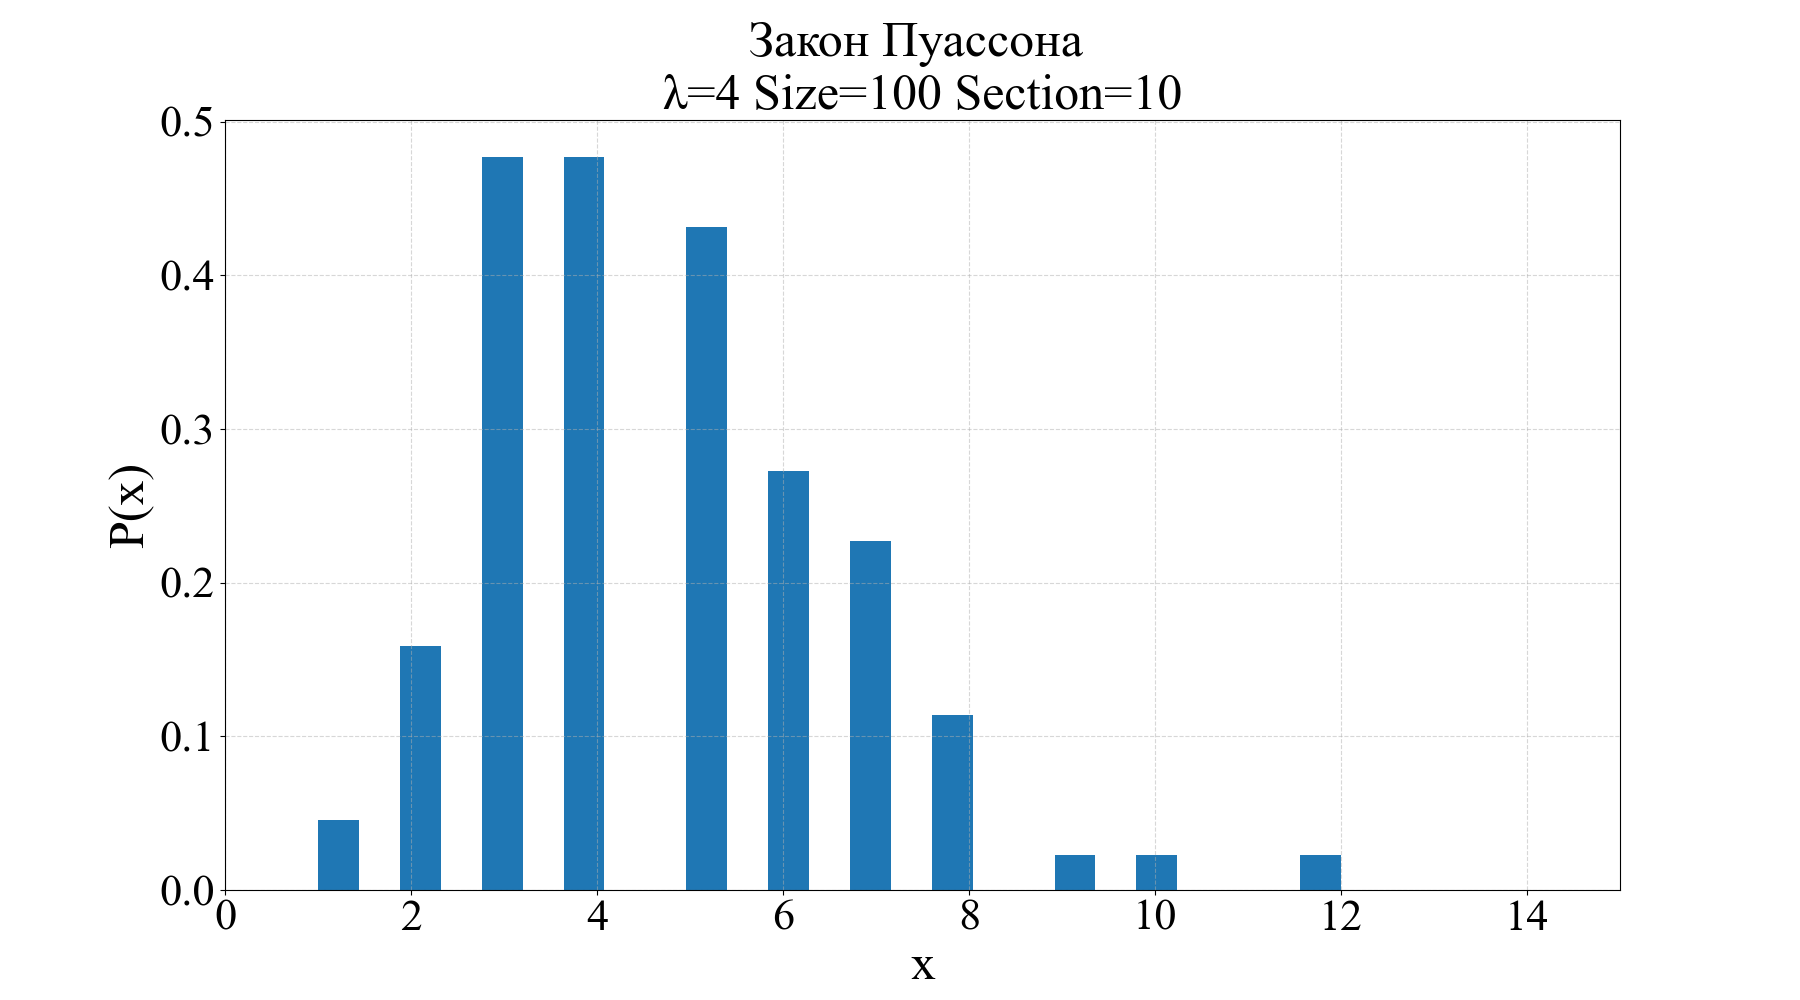
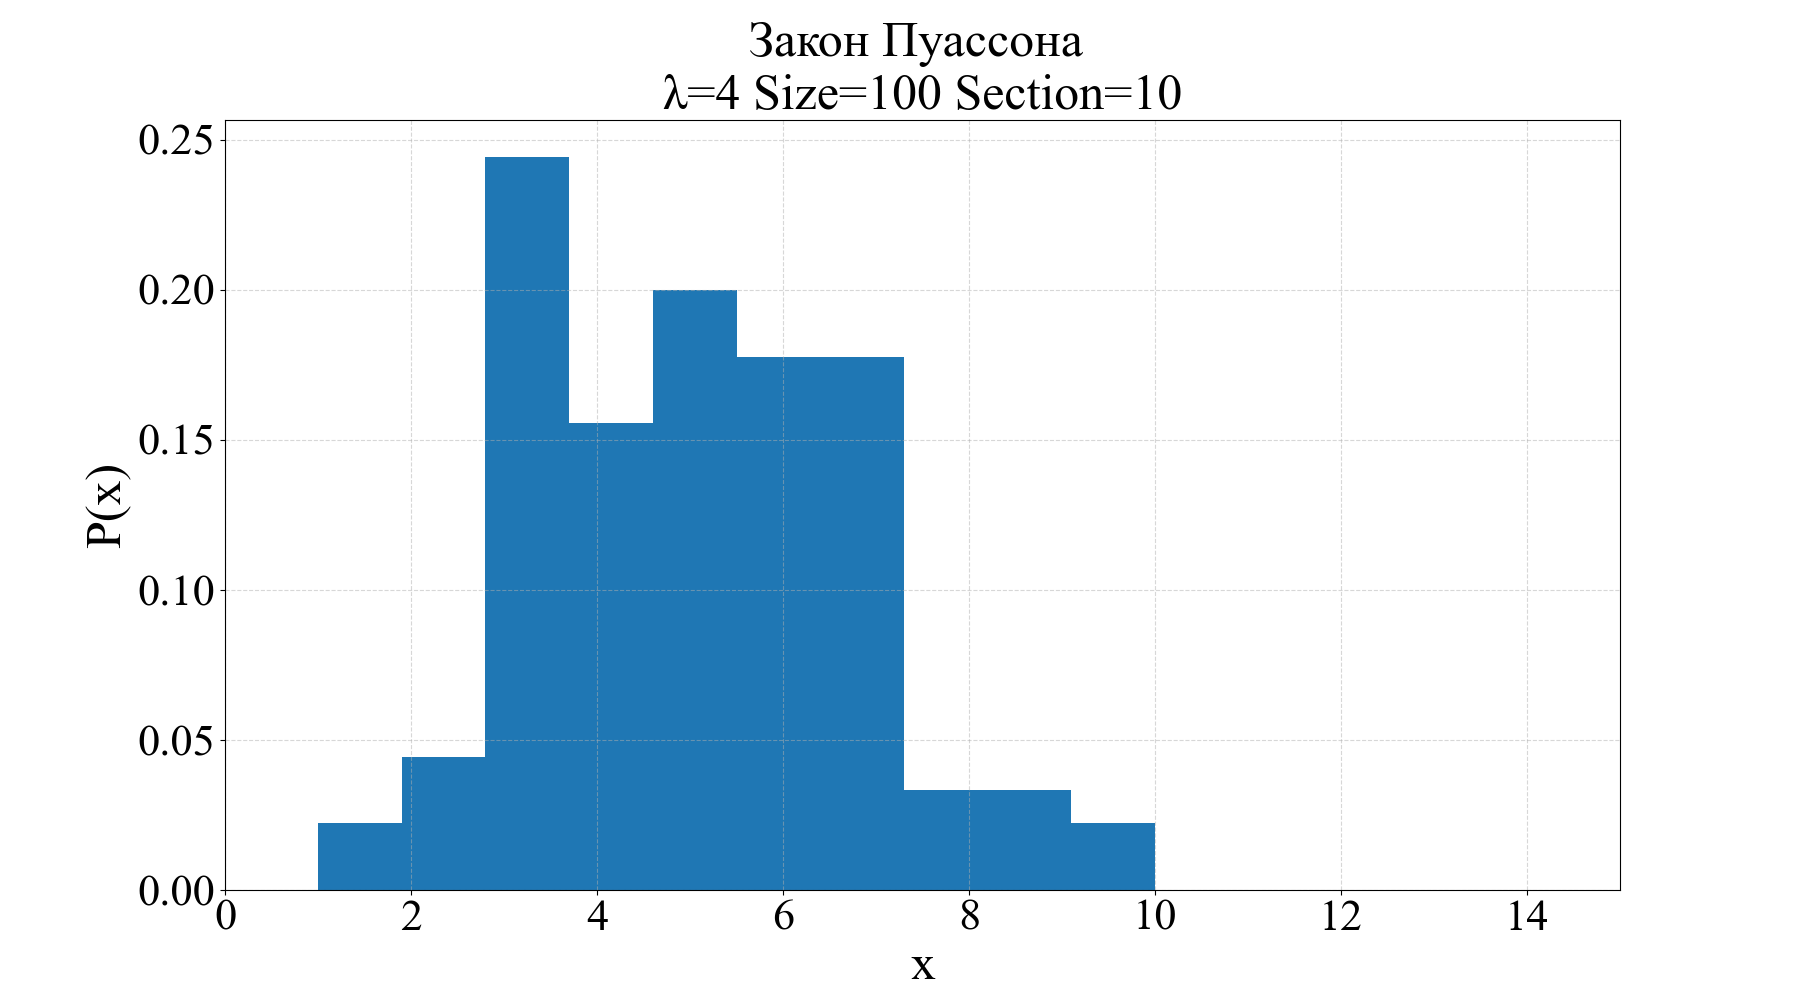
完成 卡方分布主要模块

diff --git a/003 - lab2+/main.py b/003 - lab2+/main.py
@@ -43,7 +43,7 @@ def irnpoi(mu: int, size: int) -> np.ndarray:
                 i_uniform -= p_t
                 p_t *= (mu / m)
                 m += 1
-            arr_irnpoi.append(m)
+            arr_irnpoi.append(m - 1)
         else:
             m = np.random.normal(loc=mu, scale=mu, size=1)
             arr_irnpoi.append(m)
@@ -80,21 +80,17 @@ def irnpsn(mu: int, size: int) -> np.ndarray:
     return np.array(arr_irnpsn)
 
 
-def get_hist_arr(arr: np.ndarray, arr_cut_value: np.ndarray):
+def get_hist_arr(arr: np.ndarray, arr_cut_value: np.ndarray) -> np.ndarray:
     """
     根据传入的数值数组进行分隔并统计分布数量
     :param arr: 数组
-    :param arr_cut_value: 要分隔的区间数组；比如：[0, 3, 5, 8] 则统计：[0, 3), [3, 5), [5, 8)
+    :param arr_cut_value: 要分隔的区间数组；比如：[0, 3, 5, 8] 则统计：(0, 3], (3, 5], (5, 8]
     :return: 统计结束后的数组
     """
     if arr is None or arr_cut_value is None:
         raise ValueError
 
     return pd.cut(x=arr, bins=arr_cut_value).value_counts().values
-
-
-
-
 
 
 def plot_poisson_hist(arr_poisson: np.ndarray, save_path: str):
@@ -120,55 +116,41 @@ def plot_poisson_hist(arr_poisson: np.ndarray, save_path: str):
 
 
 if __name__ == '__main__':
-
-    print('numpy 泊松分布：')
-    arr_obs_poisson = np.random.poisson(lam=4, size=100)
-    pd.Series(arr_obs_poisson).sort_values().plot(kind='hist')
-
-    arr_obs_hist = get_hist_arr(arr=arr_obs_poisson, arr_cut_value=np.array(range(16)))  # [0, 16)
-
-    print('-' * 50)
-
-
-
-
-
-
-
-
-
-
-
-
-
-
-    #
-    # print('>' * 50, '\nirnpoi(mu=4, size=100):')
-    #
-    # crit = stats.chi2.ppf(q=0.05,
-    #                       df=9)
-    # print('临界值：', crit)
-    #
-    # arr_poi = irnpoi(mu=4, size=100)
-    # print('\tmin: ', arr_poi.min(), '\n\tmax: ', arr_poi.max())
-    #
-    # arr_pdf = st_method.get_pdf(arr_poi, cut_num=10)
-    # # chi_2 = chisquare(f_obs=arr_poi)
-    # chi_2 = chisquare(f_obs=arr_pdf)
-    # print('chi_2: ', chi_2)
-    #
-    # plot_poisson_hist(arr_poisson=arr_poi,
-    #                   save_path='./result/1_irnpoi.png')
+    arr_cut_value = np.array(range(-1, 16))  # [0, 16)
 
     ############################################################################
+
+    print('>' * 50, '\nnumpy 标准泊松分布：')
+    arr_exp_poisson = np.random.poisson(lam=4, size=1000000)
+    pd.Series(arr_exp_poisson).sort_values().plot(kind='hist')
+    arr_exp_hist = get_hist_arr(arr=arr_exp_poisson, arr_cut_value=arr_cut_value)  # [0, 16)
+    print('\t分布数量：', arr_exp_hist)
+    print('-' * 50, '\n')
+
+    ############################################################################
+    #
+    # print('>' * 50, '\nirnpoi(mu=4, size=100):')
+    # arr_poi = irnpoi(mu=4, size=100)
+    # print('\tmin: ', arr_poi.min(), '\n\tmax: ', arr_poi.max())
+    # plot_poisson_hist(arr_poisson=arr_poi,
+    #                   save_path='./result/1_irnpoi.png')
+    #
+    # arr_obs_poi_hist = get_hist_arr(arr=arr_poi, arr_cut_value=arr_cut_value)
+    # print('\t分布数量：', arr_obs_poi_hist)
+    # chi_2 = chisquare(f_obs=arr_obs_poi_hist + 0.05, f_exp=arr_exp_hist + 0.05)
+    # print('chi_2: ', chi_2)
+    #
+    # ############################################################################
+    #
     # print('\n\n', '>' * 50, '\nirnpoi(mu=4, size=100):')
     # arr_psn = irnpsn(mu=4, size=100)
     # print('\tmin: ', arr_psn.min(), '\n\tmax: ', arr_psn.max())
-    #
-    # chi_2 = chisquare(arr_psn)
-    # print('chi_2: ', chi_2[0])
-    #
     # plot_poisson_hist(arr_poisson=arr_psn,
     #                   save_path='./result/2_irnpsn.png')
+    #
+    # arr_obs_psn_hist = get_hist_arr(arr=arr_psn, arr_cut_value=arr_cut_value)
+    # print('\t分布数量：', arr_obs_psn_hist)
+    # chi_2 = chisquare(f_obs=arr_obs_psn_hist + 0.05, f_exp=arr_exp_hist + 0.05)
+    # print('chi_2: ', chi_2)
 
     pass

diff --git a/002 - lab2/irandom.py b/002 - lab2/irandom.py
@@ -155,7 +155,7 @@ def irnpoi(mu: int, size: int) -> np.ndarray:
                 i_uniform -= p_t
                 p_t *= (mu / m)
                 m += 1
-            arr_irnpoi.append(m)
+            arr_irnpoi.append(m - 1)
         else:
             m = np.random.normal(loc=mu, scale=mu, size=1)
             arr_irnpoi.append(m)
@@ -165,7 +165,7 @@ def irnpoi(mu: int, size: int) -> np.ndarray:
 
 def irnpsn(mu: int, size: int) -> np.ndarray:
     """
-    【2.4.1】泊松分布（算法 1）
+    【2.4.2】泊松分布（算法 2）
     :param mu: int 类型
     :param size: 数组大小
     :return: 具有泊松分布的 numpy.ndarry
@@ -184,7 +184,7 @@ def irnpsn(mu: int, size: int) -> np.ndarray:
                 i_uniform = np.random.uniform(low=0, high=1)
                 p_t *= i_uniform
                 m += 1
-            arr_irnpsn.append(m)
+            arr_irnpsn.append(m - 1)
         else:
             m = np.random.normal(loc=mu, scale=mu, size=1)
             arr_irnpsn.append(m)
